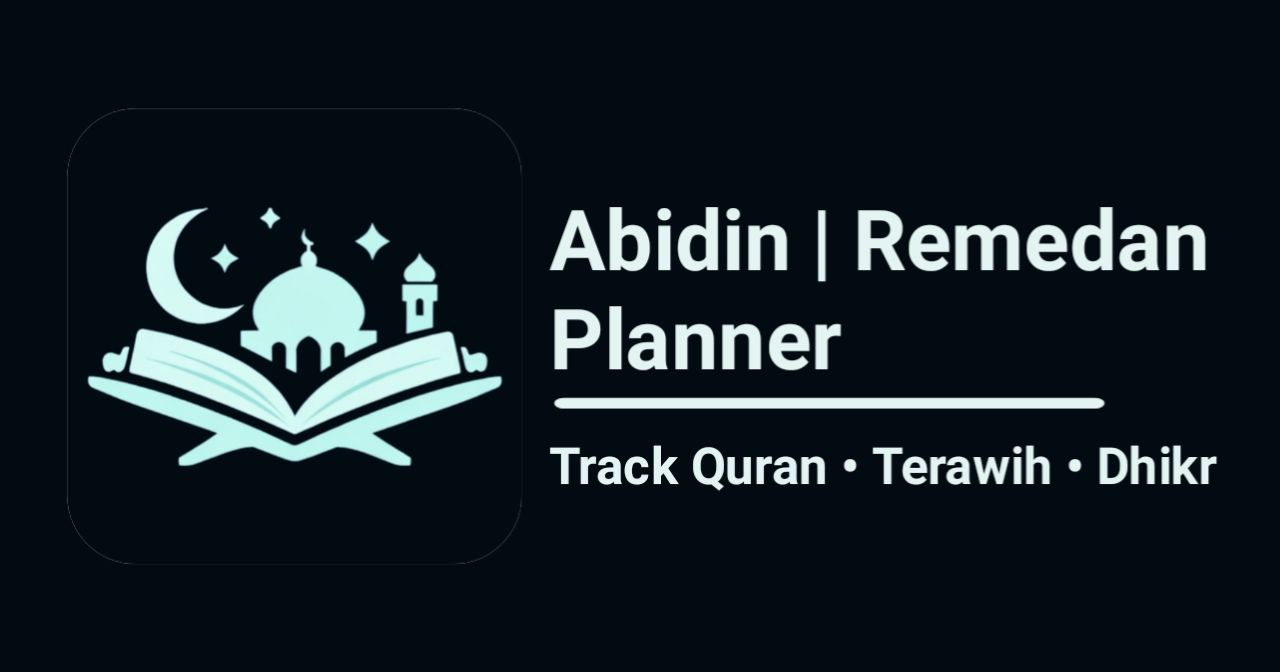
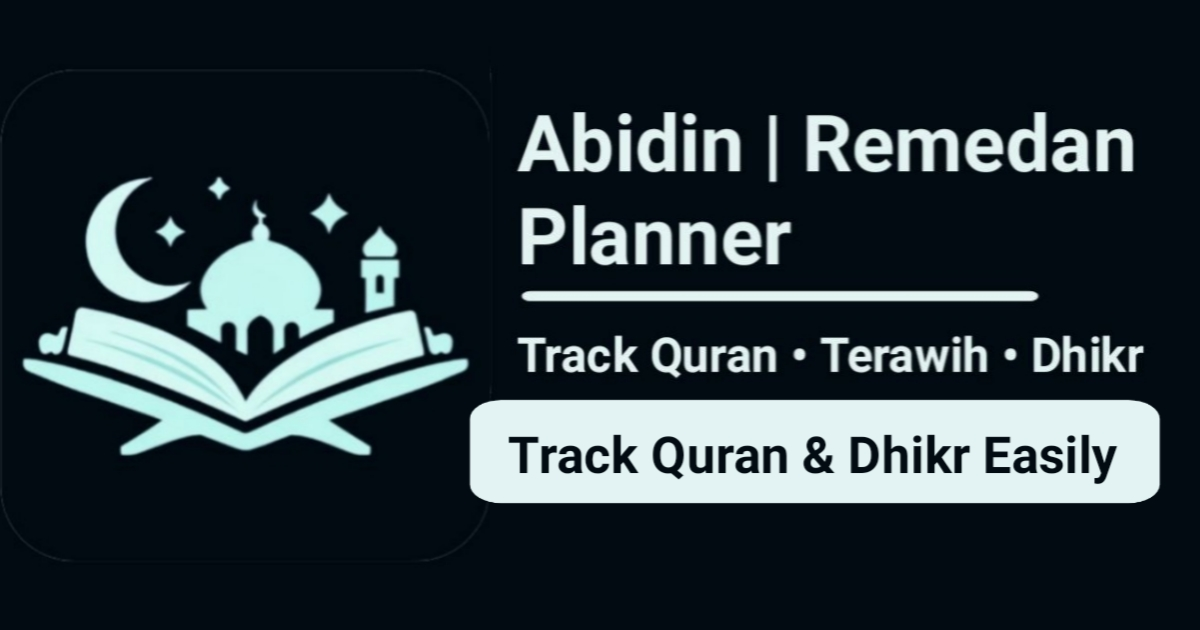
open graph image has been updated

Changed region(s): [[0.37, 0.4524, 0.9867, 0.8143], [0.0, 0.2714, 0.4008, 0.7238], [0.4317, 0.181, 0.9558, 0.4222]]

diff --git a/client/index.html b/client/index.html
@@ -11,7 +11,7 @@
       content="Abidin Ramadan Planner helps Muslims track Quran reading, Taraweeh prayers, and daily Dhikr during Ramadan. Stay consistent and strengthen your connection with Allah."
     />
 
-    <meta 
+    <meta
       name="keywords"
       content="Ramadan planner, Quran tracker, Taraweeh tracker, Dhikr tracker, Islamic productivity app, Ramadan ibadah tracker, Muslim planner"
     />
@@ -28,13 +28,15 @@
     />
     <meta
       property="og:description"
-      content="Plan your Ramadan with purpose. Track Quran, Taraweeh, and Dhikr in one beautiful Islamic planner."
+      content="Plan your Ramadan with purpose. Track Quran reading, Taraweeh, and Dhikr in one elegant and easy-to-use Islamic planner."
     />
     <meta
       property="og:image"
       content="https://abidun.netlify.app/abidin-ramadan-planner-og-image.jpg"
     />
     <meta property="og:site_name" content="Abidin Ramadan Planner" />
+    <meta property="og:image:width" content="1200" />
+    <meta property="og:image:height" content="630" />
 
     <meta name="twitter:card" content="summary_large_image" />
     <meta name="twitter:url" content="https://abidun.netlify.app/" />
@@ -44,7 +46,7 @@
     />
     <meta
       name="twitter:description"
-      content="Stay consistent this Ramadan. Track Quran, Taraweeh and Dhikr with Abidin Planner."
+      content="Plan your Ramadan with purpose. Track Quran reading, Taraweeh, and Dhikr in one elegant and easy-to-use Islamic planner."
     />
     <meta
       name="twitter:image"
